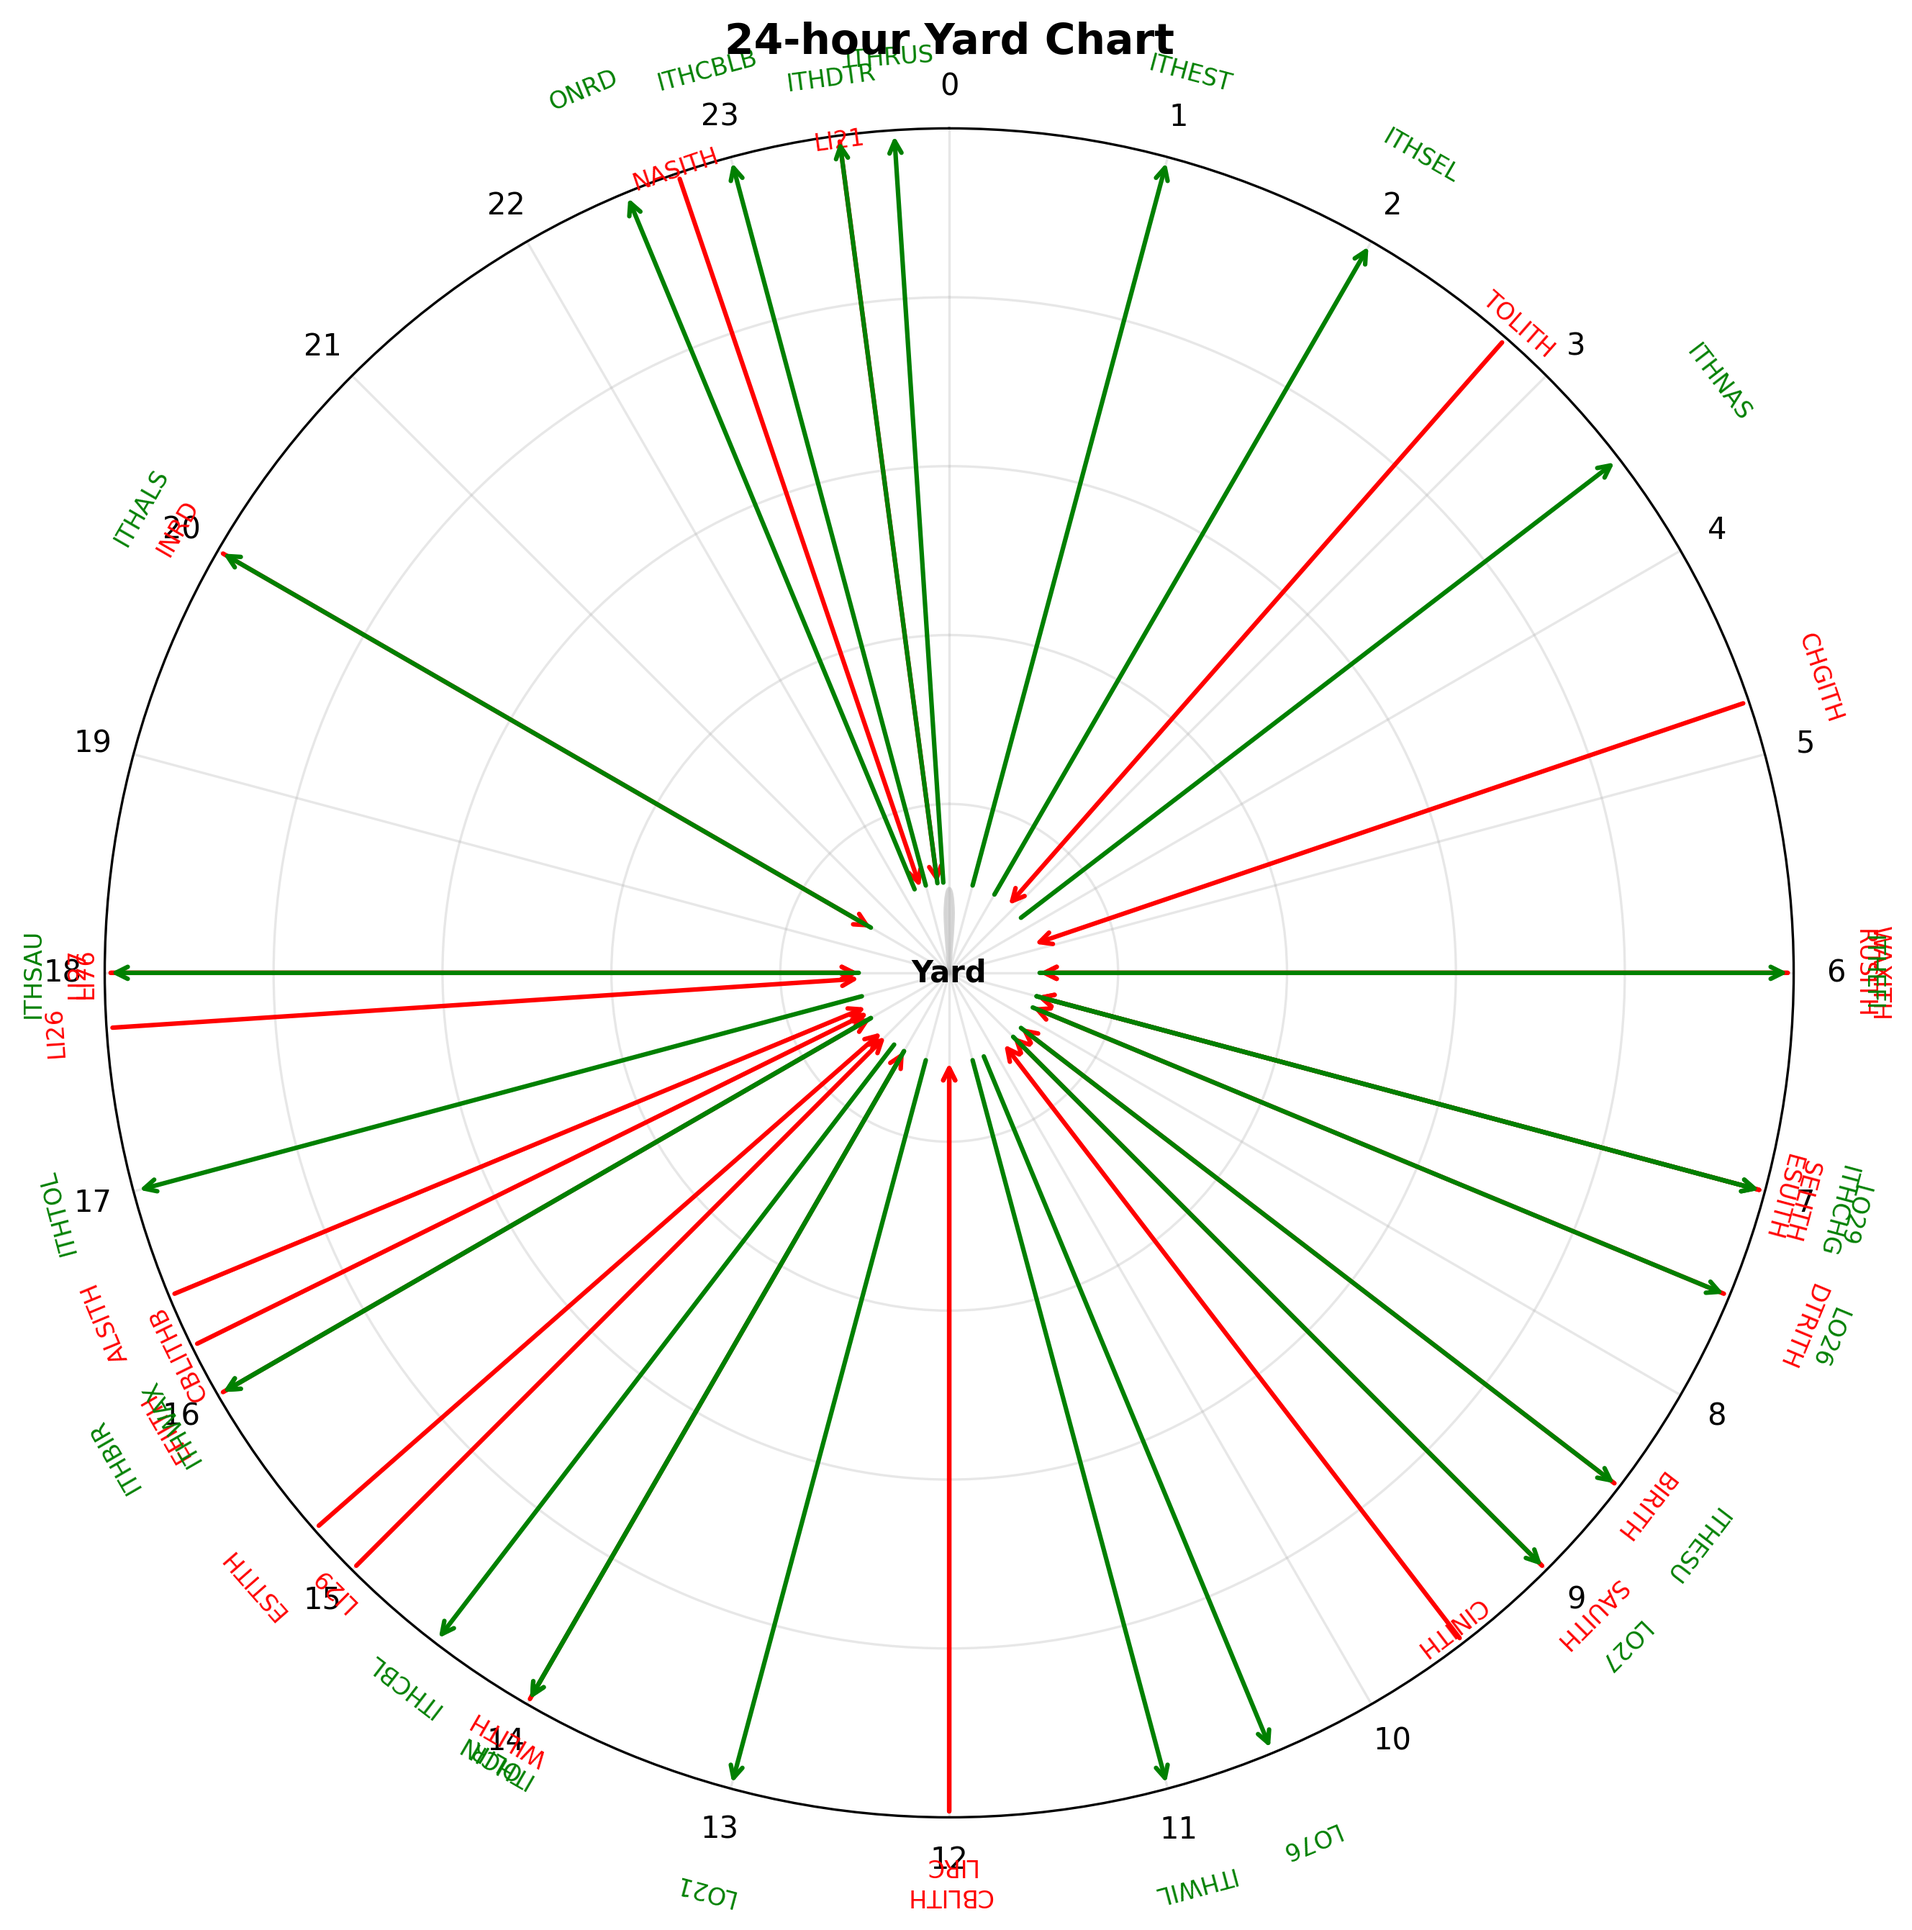
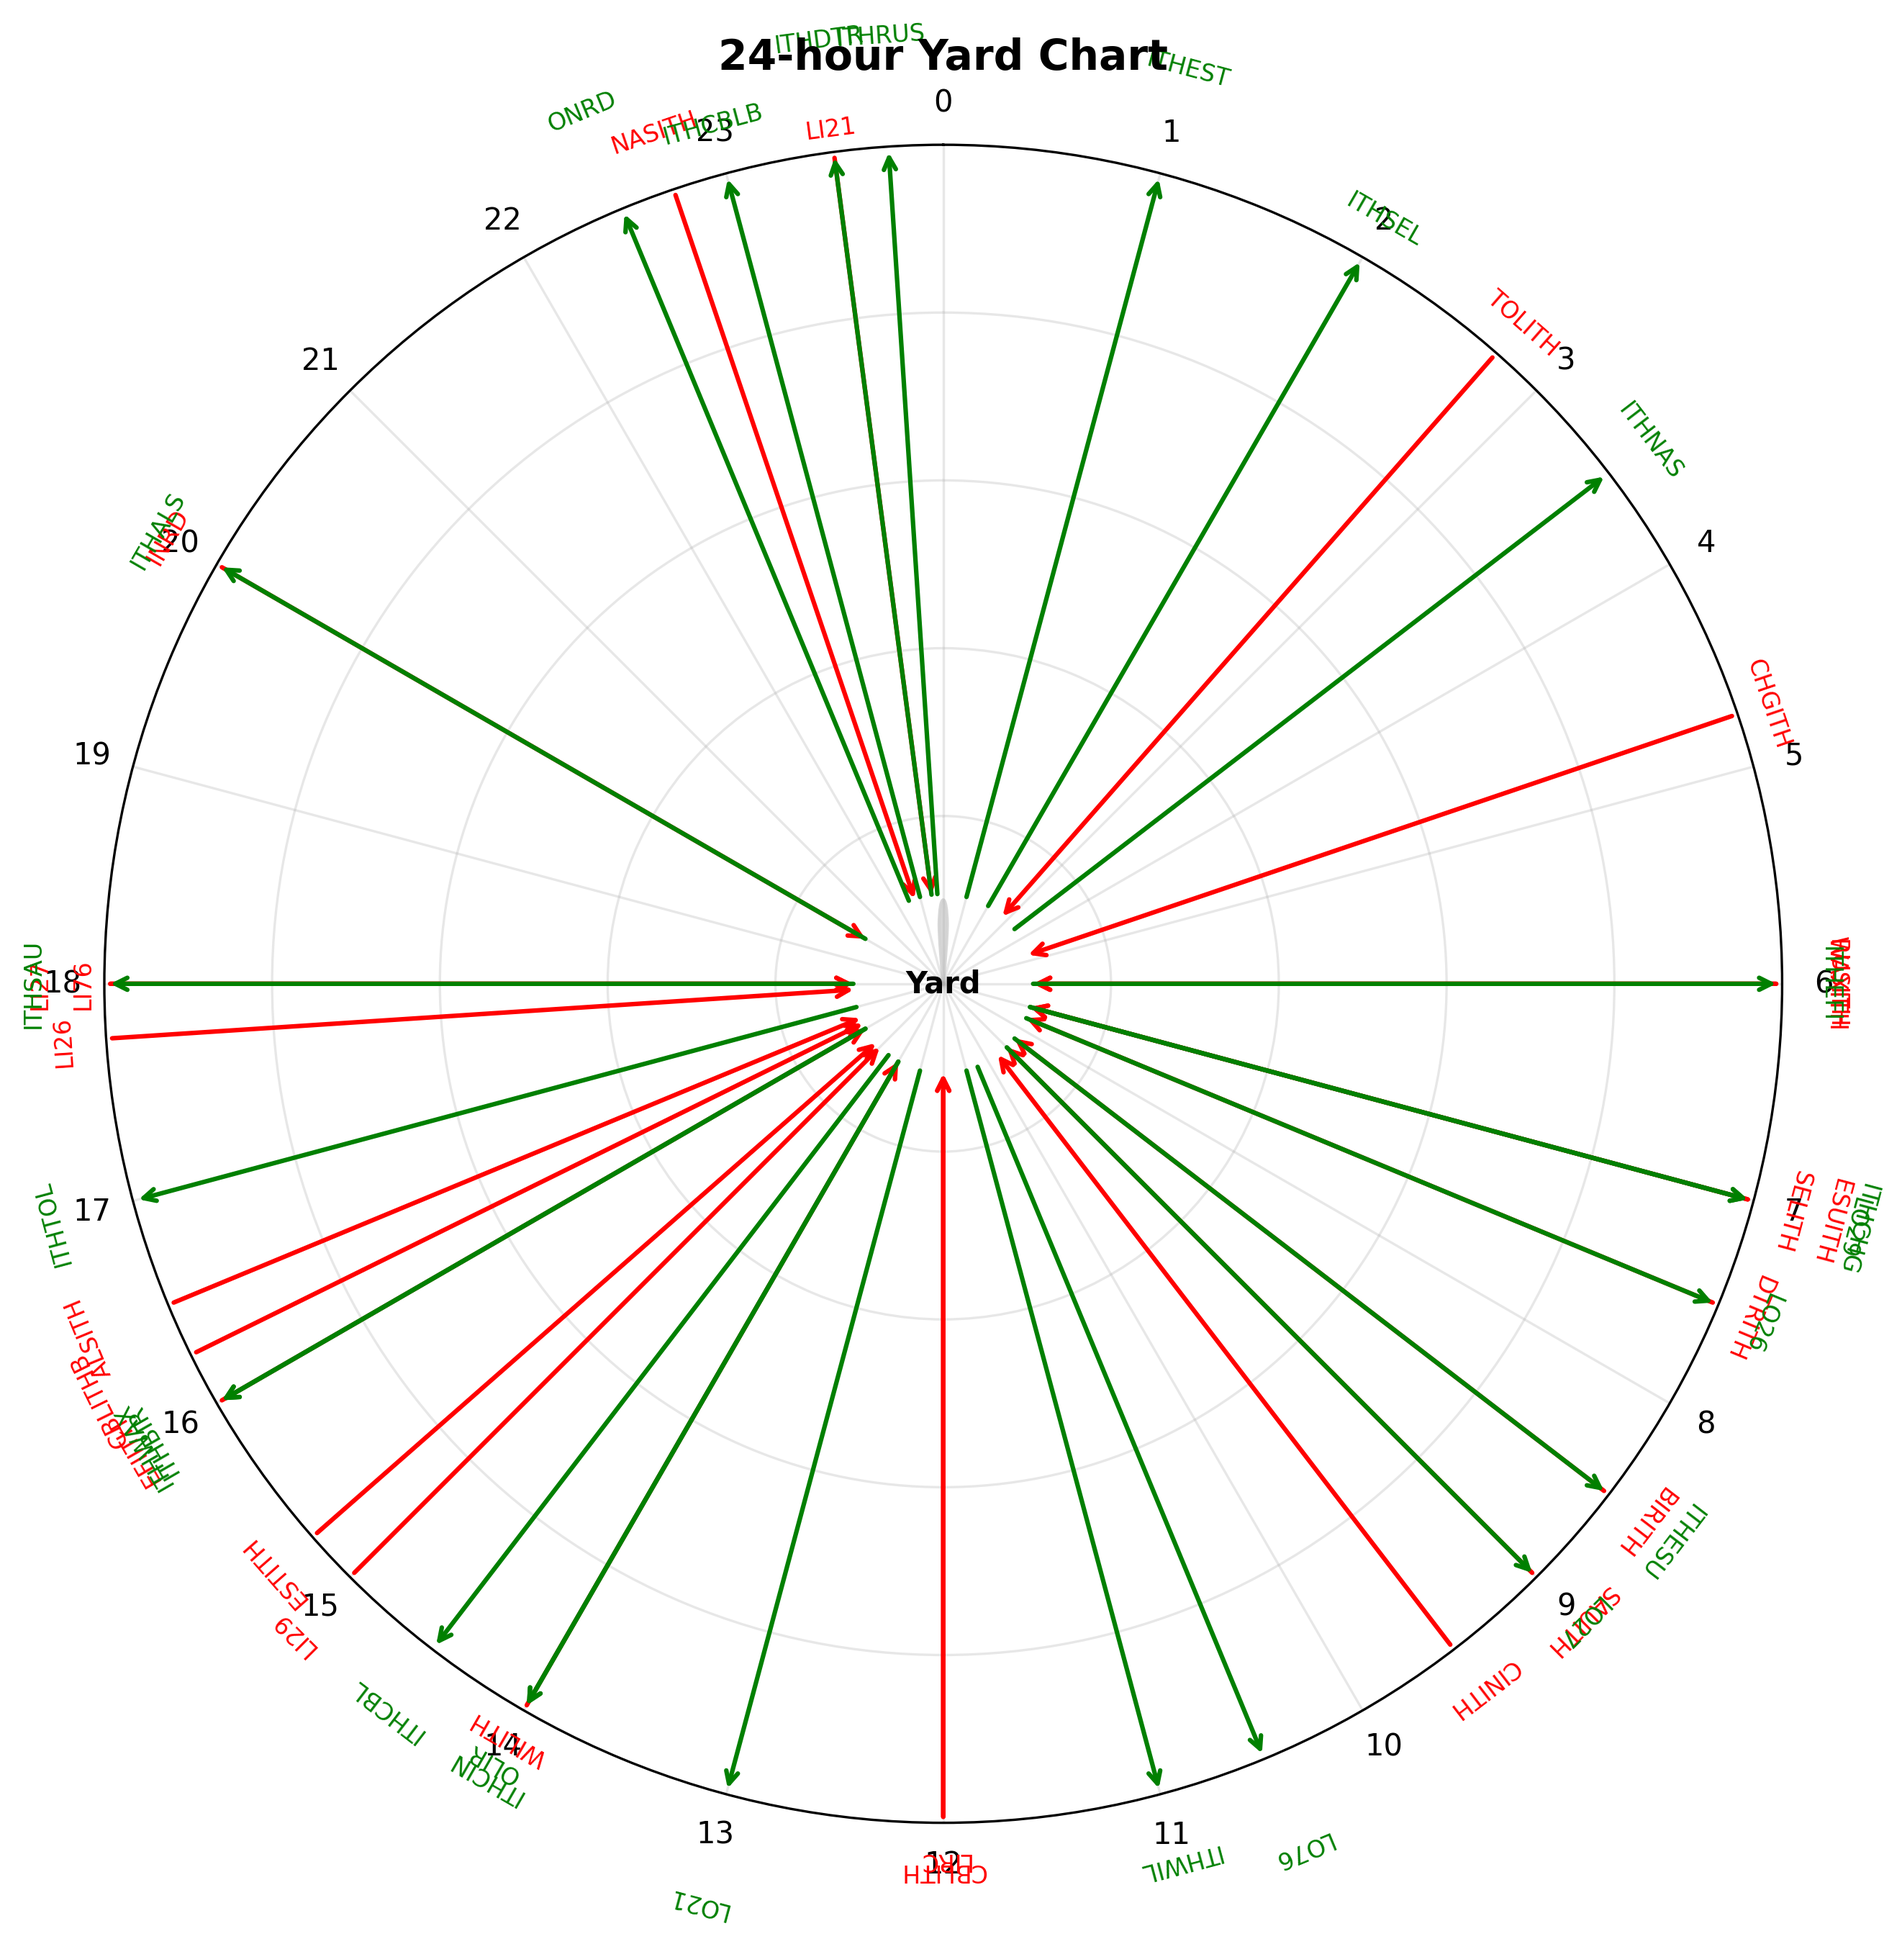
Optimization - todo update

diff --git a/main.py b/main.py
@@ -126,6 +126,7 @@ def calculate_car_arriving(yard_plan, blocks, earliest_hour):
             val = row.get(block_col, 0)
             if pd.notna(val) and str(val).replace('.', '').replace('-', '').isdigit():
                 count += int(float(val))
+                # print(f"column count: {count}")
 
         # Count target blocks in spare columns
         for spare_col in spare_columns:
@@ -135,8 +136,11 @@ def calculate_car_arriving(yard_plan, blocks, earliest_hour):
                 if block in spare_blocks:
                     count += spare_blocks[block]
 
+
         hourly_counts[hour] += max(0,count)
 
+
+    print(f"count: {count}; hourly counts: {hourly_counts}")
     return hourly_counts
 
 
@@ -151,6 +155,7 @@ def create_train_dataframe(train_name, hourly_counts, departure_time):
         'CAR_ARRIVING': [hourly_counts[h] for h in hours]
     }
 
+    print(f"data for {train_name}: {data}")
     df = pd.DataFrame(data)
 
     df['DWELL_HOURS'] = df['Time'].apply(lambda x: 24 - int(x.split(':')[0]))
@@ -220,6 +225,7 @@ def main(departure_file, yard_plan_file, output_file):
         print(f"  Earliest pull time: {earliest_time} (hour: {earliest_hour})")
 
         hourly_counts = calculate_car_arriving(yard_plan, blocks, earliest_hour)
+
         train_df = create_train_dataframe(train_name, hourly_counts, departure_time)
 
         # Extract summary metrics
@@ -268,7 +274,7 @@ def main(departure_file, yard_plan_file, output_file):
 
 if __name__ == "__main__":
     departure_file = "data/TH-Outbound-Train-Plan-2025.xlsx"
-    yard_plan_file = "data/alt_2.csv"
-    output_file = "results/yard_chart_results_alt_2.xlsx"
+    yard_plan_file = "data/alt_3.csv"
+    output_file = "results/yard_chart_results_alt_3.xlsx"
 
     main(departure_file, yard_plan_file, output_file)
